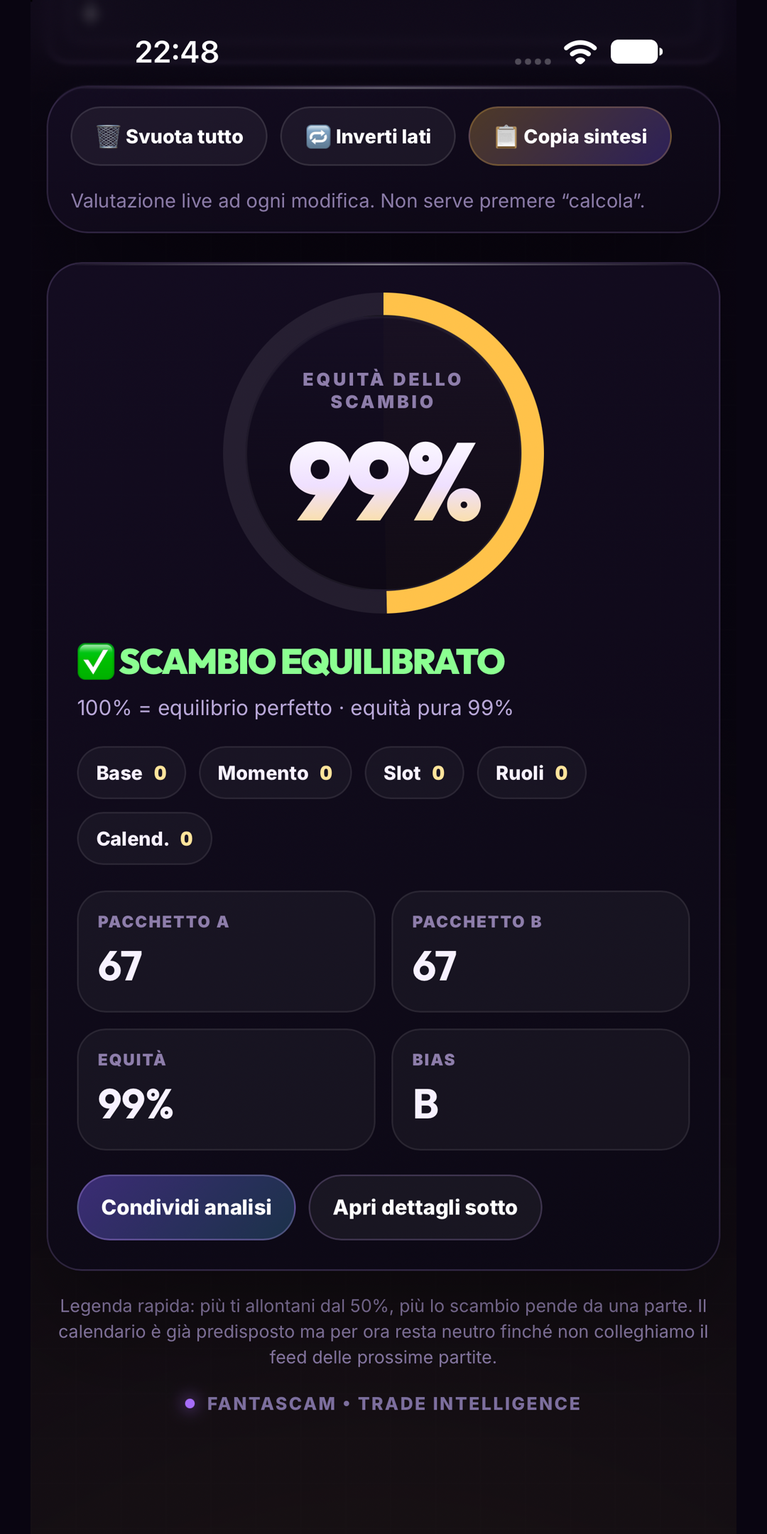
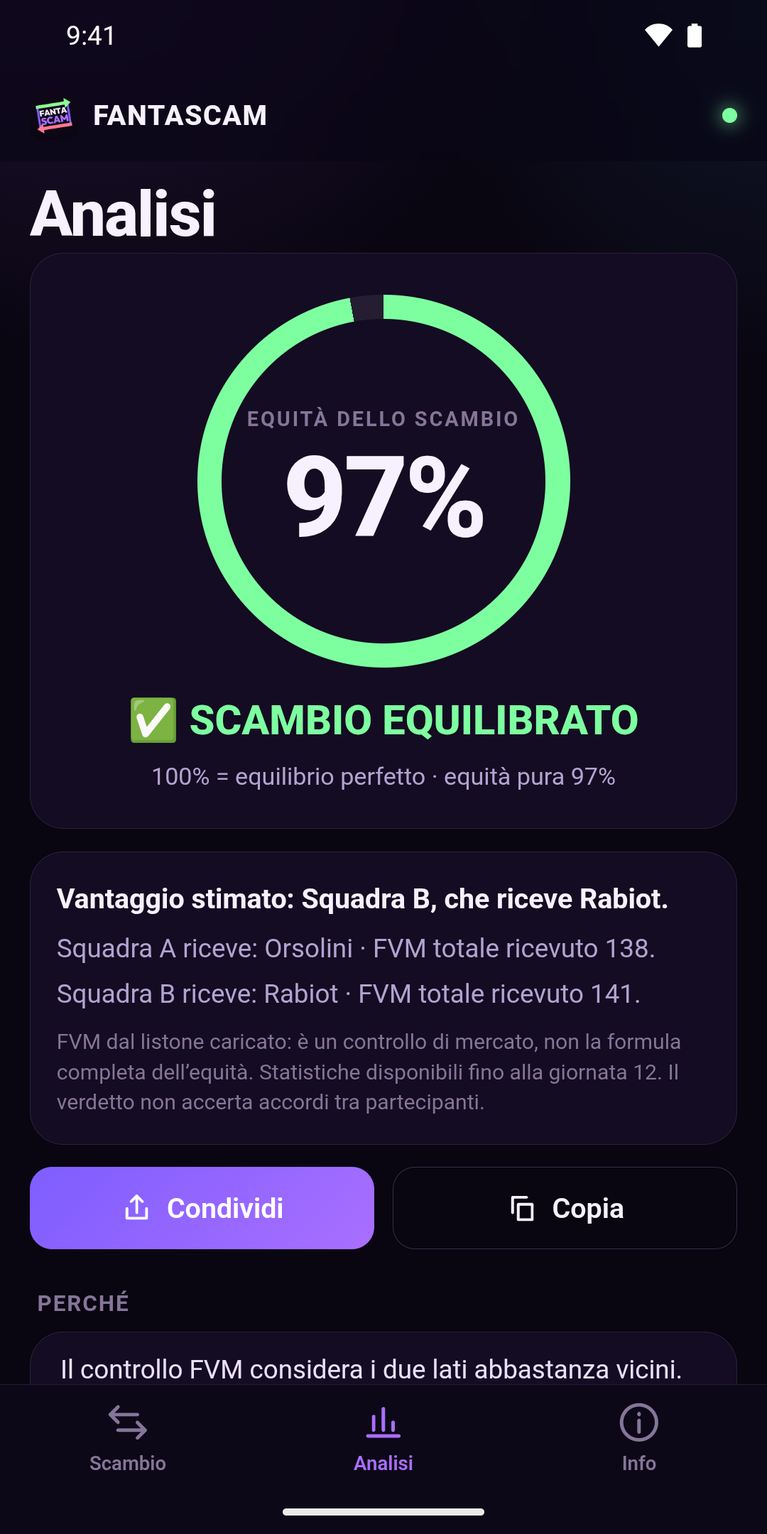
Prepara il rilascio Android 1.0 (build 3)
Safe area, status bar, splash, icona adattiva e tastiera corretti su Android;
condivisione nativa; firma di rilascio scriptata con chiave fuori dal repo;
grafica, screenshot e testi per Google Play.

Claude-Session: https://claude.ai/code/session_01QduvPC4f7yyeJ327Nc5ngE

diff --git a/mobile/www/app.css b/mobile/www/app.css
@@ -22,6 +22,12 @@
   --side-b:#7effba;
   --font:-apple-system,BlinkMacSystemFont,system-ui,"SF Pro Text",Roboto,"Segoe UI",sans-serif;
   --font-display:ui-rounded,"SF Pro Rounded",-apple-system,BlinkMacSystemFont,system-ui,Roboto,sans-serif;
+  /* Margini di sistema. Su iOS li da' env(); nella WebView Android env() vale 0
+     e Capacitor (SystemBars) li scrive in --safe-area-inset-*. Vince il maggiore. */
+  --sa-t:max(env(safe-area-inset-top,0px),var(--safe-area-inset-top,0px));
+  --sa-r:max(env(safe-area-inset-right,0px),var(--safe-area-inset-right,0px));
+  --sa-b:max(env(safe-area-inset-bottom,0px),var(--safe-area-inset-bottom,0px));
+  --sa-l:max(env(safe-area-inset-left,0px),var(--safe-area-inset-left,0px));
   --appbar-h:48px;
   --tabbar-h:56px;
   --verdictbar-h:68px;
@@ -44,7 +50,7 @@ button{cursor:pointer;touch-action:manipulation}
   radial-gradient(120% 60% at 10% -10%,rgba(169,111,255,.18),transparent 55%),
   radial-gradient(90% 50% at 100% 0%,rgba(86,180,255,.10),transparent 50%),var(--bg)}
 
-.appbar{flex:0 0 auto;position:relative;z-index:20;padding:env(safe-area-inset-top) calc(16px + env(safe-area-inset-right)) 0 calc(16px + env(safe-area-inset-left));
+.appbar{flex:0 0 auto;position:relative;z-index:20;padding:var(--sa-t) calc(16px + var(--sa-r)) 0 calc(16px + var(--sa-l));
   background:rgba(9,5,17,.72);-webkit-backdrop-filter:saturate(180%) blur(20px);backdrop-filter:saturate(180%) blur(20px);border-bottom:.5px solid transparent;transition:border-color .2s}
 .appbar.scrolled{border-bottom-color:var(--hair)}
 .appbar-row{height:var(--appbar-h);display:flex;align-items:center;justify-content:space-between;gap:12px}
@@ -59,7 +65,7 @@ button{cursor:pointer;touch-action:manipulation}
 
 .views{flex:1 1 auto;position:relative;overflow:hidden}
 .view{position:absolute;inset:0;overflow-x:hidden;overflow-y:auto;-webkit-overflow-scrolling:touch;overscroll-behavior-y:contain;
-  padding:4px calc(16px + env(safe-area-inset-right)) 28px calc(16px + env(safe-area-inset-left));
+  padding:4px calc(16px + var(--sa-r)) 28px calc(16px + var(--sa-l));
   opacity:0;visibility:hidden;transform:translateX(12px);transition:opacity .22s var(--ease),transform .22s var(--ease),visibility 0s .22s}
 .view.active{opacity:1;visibility:visible;transform:none;transition:opacity .22s var(--ease),transform .22s var(--ease)}
 .view[data-view="trade"]{padding-bottom:calc(var(--verdictbar-h) + 28px)}
@@ -70,7 +76,7 @@ button{cursor:pointer;touch-action:manipulation}
 .section-label{margin:22px 4px 8px;font-size:12px;font-weight:700;letter-spacing:.06em;text-transform:uppercase;color:var(--muted-2)}
 
 /* ---------- tab bar ---------- */
-.tabbar{flex:0 0 auto;position:relative;z-index:20;display:flex;padding:0 env(safe-area-inset-right) env(safe-area-inset-bottom) env(safe-area-inset-left);
+.tabbar{flex:0 0 auto;position:relative;z-index:20;display:flex;padding:0 var(--sa-r) var(--sa-b) var(--sa-l);
   background:rgba(13,8,22,.82);-webkit-backdrop-filter:saturate(180%) blur(20px);backdrop-filter:saturate(180%) blur(20px);border-top:.5px solid var(--hair)}
 .tab{flex:1;height:var(--tabbar-h);border:0;background:none;display:flex;flex-direction:column;align-items:center;justify-content:center;gap:3px;color:var(--muted-2);font-size:10.5px;font-weight:600;position:relative}
 .tab svg{width:25px;height:25px;stroke:currentColor;fill:none;stroke-width:1.8;stroke-linecap:round;stroke-linejoin:round}
@@ -150,7 +156,7 @@ select.cs-native{display:none!important}
 #csSheet .cs-backdrop{position:absolute;inset:0;background:rgba(0,0,0,.5);opacity:0;transition:opacity .25s}
 #csSheet.show .cs-backdrop{opacity:1}
 #csSheet .cs-panel{position:absolute;left:0;right:0;bottom:0;max-height:78vh;display:flex;flex-direction:column;background:#1a1029;border-radius:22px 22px 0 0;border-top:.5px solid var(--hair-strong);
-  padding-bottom:env(safe-area-inset-bottom);transform:translateY(100%);transition:transform .32s var(--ease);box-shadow:0 -20px 60px rgba(0,0,0,.5)}
+  padding-bottom:var(--sa-b);transform:translateY(100%);transition:transform .32s var(--ease);box-shadow:0 -20px 60px rgba(0,0,0,.5)}
 #csSheet.show .cs-panel{transform:none}
 #csSheet .cs-grab{width:38px;height:5px;border-radius:3px;background:rgba(255,255,255,.22);margin:8px auto 4px}
 #csSheet .cs-head{display:flex;align-items:center;justify-content:space-between;padding:6px 18px 10px}
@@ -207,14 +213,14 @@ select.cs-native{display:none!important}
 /* Modali dell'engine resi bottom sheet in tema. */
 .fsv10-modal,#fs-v101-manager{padding:0!important;align-items:flex-end!important;background:rgba(0,0,0,.5)!important}
 .fsv10-sheet,.fsv101-sheet{width:100%!important;max-width:720px;border-radius:22px 22px 0 0!important;border:0!important;border-top:.5px solid var(--hair-strong)!important;
-  background:#1a1029!important;padding:18px 18px calc(18px + env(safe-area-inset-bottom))!important;max-height:88vh!important;animation:sheetUp .32s var(--ease)}
+  background:#1a1029!important;padding:18px 18px calc(18px + var(--sa-b))!important;max-height:88vh!important;animation:sheetUp .32s var(--ease)}
 @keyframes sheetUp{from{transform:translateY(100%)}to{transform:none}}
 .fsv10-sheet input,.fsv10-sheet textarea,.fsv101-sheet input{font-size:16px!important;border-radius:12px!important;border:0!important;background:rgba(255,255,255,.07)!important;color:var(--text)!important;min-height:44px}
 .fsv10-sheet button,.fsv101-sheet button{min-height:42px;border-radius:12px!important}
 .fsv101-sheet input[type=file]::file-selector-button{border:0;border-radius:10px;background:rgba(169,111,255,.2);color:var(--accent);font-weight:700;padding:8px 12px;margin-right:10px}
 
 /* ---------- barra verdetto (vista Scambio) ---------- */
-.verdictbar{position:absolute;left:calc(12px + env(safe-area-inset-left));right:calc(12px + env(safe-area-inset-right));bottom:10px;z-index:15;height:var(--verdictbar-h);
+.verdictbar{position:absolute;left:calc(12px + var(--sa-l));right:calc(12px + var(--sa-r));bottom:10px;z-index:15;height:var(--verdictbar-h);
   display:flex;align-items:center;gap:12px;padding:0 14px 0 10px;border:.5px solid var(--hair-strong);border-radius:20px;color:var(--text);text-align:left;
   background:rgba(27,17,48,.86);-webkit-backdrop-filter:saturate(180%) blur(22px);backdrop-filter:saturate(180%) blur(22px);box-shadow:0 14px 40px rgba(0,0,0,.45);
   transition:transform .3s var(--ease),opacity .3s}
@@ -287,7 +293,7 @@ select.cs-native{display:none!important}
 .app-foot{margin:24px 0 8px;text-align:center;color:var(--muted-2);font-size:12px}
 
 /* ---------- toast ---------- */
-.toast{position:fixed;left:50%;top:calc(env(safe-area-inset-top) + 10px);z-index:95000;transform:translate(-50%,calc(-100% - env(safe-area-inset-top) - 24px));opacity:0;transition:transform .32s var(--ease),opacity .2s;padding:11px 16px;border-radius:14px;
+.toast{position:fixed;left:50%;top:calc(var(--sa-t) + 10px);z-index:95000;transform:translate(-50%,calc(-100% - var(--sa-t) - 24px));opacity:0;transition:transform .32s var(--ease),opacity .2s;padding:11px 16px;border-radius:14px;
   background:rgba(36,24,61,.96);border:.5px solid var(--hair-strong);color:#fff;font-weight:600;font-size:14px;box-shadow:0 12px 32px rgba(0,0,0,.45);pointer-events:none;max-width:calc(100% - 32px)}
 .toast.show{transform:translate(-50%,0);opacity:1}
 

diff --git a/mobile/www/app-shell.js b/mobile/www/app-shell.js
@@ -370,6 +370,18 @@
     const isField = el => el && (el.tagName === 'TEXTAREA' || (el.tagName === 'INPUT' && !['button', 'checkbox', 'radio', 'file'].includes(el.type)));
     document.addEventListener('focusin', e => { if (isField(e.target)) document.body.classList.add('kb-open'); });
     document.addEventListener('focusout', () => setTimeout(() => { if (!isField(document.activeElement)) document.body.classList.remove('kb-open'); }, 60));
+    // Su Android il tasto indietro chiude la tastiera lasciando il focus sul
+    // campo: nessun focusout, quindi fa fede l'altezza della finestra. Il focus
+    // non si tocca, altrimenti sparirebbero i risultati della ricerca.
+    if (window.Capacitor?.getPlatform?.() === 'android') {
+      let h = window.innerHeight, w = window.innerWidth;
+      window.addEventListener('resize', () => {
+        const dh = window.innerHeight - h, ruotato = window.innerWidth !== w;
+        h = window.innerHeight; w = window.innerWidth;
+        if (ruotato || Math.abs(dh) < 120) return;
+        document.body.classList.toggle('kb-open', dh < 0 && isField(document.activeElement));
+      });
+    }
   };
 
   /* =====================================================================
@@ -489,7 +501,7 @@
     window.Capacitor?.Plugins?.App?.addListener?.('backButton', () => {
       const ae = document.activeElement;
       const engineModal = $('#fs-v101-manager.show, #fs-v10-league-modal.show');
-      if (ae && /^(INPUT|TEXTAREA)$/.test(ae.tagName) && document.body.classList.contains('kb-open')) ae.blur();
+      if (ae && /^(INPUT|TEXTAREA)$/.test(ae.tagName)) ae.blur();
       else if (sheet.classList.contains('open')) close();
       else if (engineModal) { const x = engineModal.querySelector('[data-close]'); x ? x.click() : engineModal.classList.remove('show'); }
       else if (!$('.view[data-view="trade"]').classList.contains('active')) showView('trade');

diff --git a/mobile/www/index.html b/mobile/www/index.html
@@ -252,6 +252,11 @@
 </template>
 
 <script>window.FS_STORE_EDITION=true;window.FS_API_BASE="https://fantacalcio-trade-calculator.vercel.app";</script>
+<script>
+// Il gestore leghe del motore legge il budget senza default (num(null,500) da' 0)
+// e propone 1 credito: si salva il valore iniziale prima che lo chieda.
+try{if(!localStorage.getItem('fantascamLeagueBudget'))localStorage.setItem('fantascamLeagueBudget','500')}catch(e){}
+</script>
 <!-- XLSX nel bundle: l'import delle leghe deve funzionare anche senza rete.
      loadXlsx() in injuries.js trova window.XLSX gia' presente e non scarica dal CDN. -->
 <script defer src="vendor/xlsx.full.min.js"></script>
@@ -357,6 +362,9 @@ async function copyText(text){
   catch(e){showToast('Copia non riuscita');}
 }
 async function shareText(text){
+  // La WebView Android non ha navigator.share: li' serve il plugin nativo.
+  const nativo=window.Capacitor?.isNativePlatform?.()&&window.Capacitor.Plugins?.Share;
+  if(nativo){try{await nativo.share({title:'FANTASCAM',text});return}catch(e){if(/cancel/i.test(e?.message||''))return}}
   if(navigator.share){try{await navigator.share({title:'FANTASCAM',text});return}catch(e){if(e&&e.name==='AbortError')return}}
   copyText(text);
 }

diff --git a/mobile/capacitor.config.ts b/mobile/capacitor.config.ts
@@ -24,6 +24,11 @@ const config: CapacitorConfig = {
     CapacitorHttp: {
       enabled: true
     },
+    // L'app e' sempre scura: icone chiare nella status bar anche quando il
+    // telefono e' in tema chiaro (il default segue il sistema).
+    SystemBars: {
+      style: 'DARK'
+    },
     // Lo splash nativo resta finche' l'intro e' pronta a partire: lo nasconde
     // il codice in www/index.html, non il sistema, cosi' non c'e' stacco
     // fra launch screen e primo fotogramma del video.

diff --git a/mobile/scripts/apply_native.py b/mobile/scripts/apply_native.py
@@ -11,6 +11,16 @@ Cosa applica:
   iOS     ITSAppUsesNonExemptEncryption = false in Info.plist
           MARKETING_VERSION e CURRENT_PROJECT_VERSION in project.pbxproj
   Android versionName e versionCode in app/build.gradle
+          firma di rilascio in app/build.gradle (vedi sotto)
+          tema di avvio scuro in values/styles.xml e icona dello splash
+          icona adattiva con fondo pieno in mipmap-anydpi-v26/
+
+Firma Android: chiave e password NON stanno nel repo. build.gradle le legge da
+`keystore.properties` nella cartella FANTASCAM_Signing, sorella del repo (o in
+quella indicata da FANTASCAM_SIGNING_DIR). Se il file non c'e', come in CI, il
+bundle esce non firmato invece di fallire.
+
+Va eseguito dopo `npm run assets`, che riscrive l'icona adattiva.
 
 Sulla dichiarazione di crittografia: App Store Connect chiede a ogni build se
 la app usa crittografia. FANTASCAM fa solo chiamate HTTPS, cioe' usa la
@@ -36,6 +46,78 @@ RELEASE = ROOT / "release.json"
 INFO_PLIST = ROOT / "ios" / "App" / "App" / "Info.plist"
 PBXPROJ = ROOT / "ios" / "App" / "App.xcodeproj" / "project.pbxproj"
 GRADLE = ROOT / "android" / "app" / "build.gradle"
+RES = ROOT / "android" / "app" / "src" / "main" / "res"
+
+SFONDO = "#090511"
+
+FIRMA_MARCA = "// FANTASCAM: firma di rilascio"
+FIRMA = FIRMA_MARCA + """ (generato da scripts/apply_native.py)
+def fsSigningDir = System.getenv('FANTASCAM_SIGNING_DIR') ?: rootProject.file('../../../FANTASCAM_Signing').path
+def fsSigningFile = new File(fsSigningDir, 'keystore.properties')
+if (fsSigningFile.exists()) {
+    def fsSigning = new Properties()
+    fsSigningFile.withInputStream { fsSigning.load(it) }
+    android {
+        signingConfigs {
+            release {
+                storeFile new File(fsSigningDir, fsSigning['storeFile'])
+                storePassword fsSigning['storePassword']
+                keyAlias fsSigning['keyAlias']
+                keyPassword fsSigning['keyPassword']
+            }
+        }
+        buildTypes.release.signingConfig signingConfigs.release
+    }
+}
+"""
+
+# Senza questi colori lo splash di Android 12+ segue il tema del telefono e in
+# chiaro lampeggia bianco prima dell'intro.
+STYLES = f"""<?xml version="1.0" encoding="utf-8"?>
+<!-- Generato da scripts/apply_native.py -->
+<resources>
+    <style name="AppTheme" parent="Theme.AppCompat.NoActionBar">
+        <item name="android:windowBackground">@color/fantascam_background</item>
+    </style>
+
+    <style name="AppTheme.NoActionBar" parent="Theme.AppCompat.NoActionBar">
+        <item name="windowActionBar">false</item>
+        <item name="windowNoTitle">true</item>
+        <item name="android:windowBackground">@color/fantascam_background</item>
+    </style>
+
+    <style name="AppTheme.NoActionBarLaunch" parent="Theme.SplashScreen">
+        <item name="windowSplashScreenBackground">@color/fantascam_background</item>
+        <item name="windowSplashScreenAnimatedIcon">@drawable/fantascam_splash_icon</item>
+        <item name="postSplashScreenTheme">@style/AppTheme.NoActionBar</item>
+    </style>
+</resources>
+"""
+COLORI = f"""<?xml version="1.0" encoding="utf-8"?>
+<!-- Generato da scripts/apply_native.py -->
+<resources>
+    <color name="fantascam_background">{SFONDO}</color>
+</resources>
+"""
+# L'icona dello splash occupa 288dp ma il sistema ne mostra solo il cerchio
+# centrale da 192dp. Il margine e' in dp: in percentuale servirebbe API 26.
+SPLASH = """<?xml version="1.0" encoding="utf-8"?>
+<!-- Generato da scripts/apply_native.py -->
+<inset xmlns:android="http://schemas.android.com/apk/res/android"
+    android:drawable="@mipmap/ic_launcher_foreground"
+    android:inset="54dp" />
+"""
+# @capacitor/assets mette un margine anche sul fondo: ai bordi della maschera
+# resta un filo trasparente. Il fondo deve essere pieno.
+ICONA = """<?xml version="1.0" encoding="utf-8"?>
+<!-- Generato da scripts/apply_native.py -->
+<adaptive-icon xmlns:android="http://schemas.android.com/apk/res/android">
+    <background android:drawable="@color/fantascam_background" />
+    <foreground>
+        <inset android:drawable="@mipmap/ic_launcher_foreground" android:inset="16.7%" />
+    </foreground>
+</adaptive-icon>
+"""
 
 esiti: list[tuple[bool, str]] = []
 
@@ -58,7 +140,9 @@ def leggi_release() -> dict:
 
 
 def bump(dati: dict) -> dict:
-    usate = set(dati.get("usedBuilds", {}).get("ios", []))
+    # Il numero e' unico per i due store: si saltano le build usate su entrambi.
+    registro = dati.get("usedBuilds", {})
+    usate = set(registro.get("ios", [])) | set(registro.get("android", []))
     nuovo = dati["build"] + 1
     while nuovo in usate:
         nuovo += 1
@@ -131,6 +215,43 @@ def applica_gradle(dati: dict, check: bool) -> None:
         nota(False, f"Android: portato a {dati['version']} ({dati['build']})")
 
 
+def applica_firma(check: bool) -> None:
+    if not GRADLE.exists():
+        return
+    testo = GRADLE.read_text(encoding="utf-8")
+    base = testo.split(FIRMA_MARCA)[0].rstrip() + "\n"
+    nuovo = base + "\n" + FIRMA
+    if nuovo == testo:
+        nota(True, "Android: firma di rilascio gia' configurata")
+    elif check:
+        nota(False, "Android: firma di rilascio da configurare")
+    else:
+        GRADLE.write_text(nuovo, encoding="utf-8")
+        nota(False, "Android: configurata la firma di rilascio")
+
+
+def applica_risorse(check: bool) -> None:
+    if not RES.exists():
+        return
+    file = {
+        RES / "values" / "styles.xml": STYLES,
+        RES / "values" / "fantascam.xml": COLORI,
+        RES / "drawable" / "fantascam_splash_icon.xml": SPLASH,
+        RES / "mipmap-anydpi-v26" / "ic_launcher.xml": ICONA,
+        RES / "mipmap-anydpi-v26" / "ic_launcher_round.xml": ICONA,
+    }
+    for percorso, atteso in file.items():
+        nome = f"{percorso.parent.name}/{percorso.name}"
+        if percorso.exists() and percorso.read_text(encoding="utf-8") == atteso:
+            nota(True, f"Android: {nome} gia' a posto")
+        elif check:
+            nota(False, f"Android: {nome} da riscrivere")
+        else:
+            percorso.parent.mkdir(parents=True, exist_ok=True)
+            percorso.write_text(atteso, encoding="utf-8")
+            nota(False, f"Android: riscritto {nome}")
+
+
 def main() -> int:
     argv = sys.argv[1:]
     check = "--check" in argv
@@ -145,6 +266,8 @@ def main() -> int:
     applica_plist(dati, check)
     applica_pbxproj(dati, check)
     applica_gradle(dati, check)
+    applica_firma(check)
+    applica_risorse(check)
 
     divergenti = [t for ok, t in esiti if not ok]
     if check and divergenti:

diff --git a/CLAUDE.md b/CLAUDE.md
@@ -227,7 +227,7 @@ npx cap sync
 
 Toolchain locale presente: Node 26.6, npm 11.18, Xcode 26.6, CocoaPods 1.15.2 (non serve, SPM), Java 21, Android SDK. `ANDROID_HOME` non è esportato nell'ambiente: `export ANDROID_HOME=~/Library/Android/sdk` prima dei comandi gradle. Capacitor 8 richiede compileSdk/targetSdk **36**: Gradle lo scarica da solo al primo sync.
 
-`android/`, `ios/` e `node_modules/` sono gitignorati e vengono rigenerati da `cap add`. Il codice nativo generato è **boilerplate vuoto** — iOS: `SceneDelegate.swift` con la sola riga `window?.rootViewController = CAPBridgeViewController()`; Android: `MainActivity extends BridgeActivity {}`, 5 righe — quindi oggi rigenerare non perde nulla. Le personalizzazioni native che servono davvero sono **scriptate**, non fatte a mano in Xcode: le riapplica `scripts/apply_native.py` leggendo da `mobile/release.json`, unica fonte dei numeri di versione. Unico permesso Android: `INTERNET`.
+`android/`, `ios/` e `node_modules/` sono gitignorati e vengono rigenerati da `cap add`. Il codice nativo generato è **boilerplate vuoto** — iOS: `SceneDelegate.swift` con la sola riga `window?.rootViewController = CAPBridgeViewController()`; Android: `MainActivity extends BridgeActivity {}`, 5 righe — quindi oggi rigenerare non perde nulla. Le personalizzazioni native che servono davvero sono **scriptate**, non fatte a mano in Xcode: le riapplica `scripts/apply_native.py` leggendo da `mobile/release.json`, unica fonte dei numeri di versione. Permessi Android: `INTERNET` e `VIBRATE` (haptics).
 
 ### Numeri di versione e dichiarazione crittografia
 
@@ -239,9 +239,19 @@ npm run release:bump    # alza il build number prima di un nuovo upload
 
 Lo script imposta `MARKETING_VERSION`/`CURRENT_PROJECT_VERSION` (iOS), `versionName`/`versionCode` (Android) e `ITSAppUsesNonExemptEncryption = false` in `Info.plist`.
 
-**Va eseguito dopo ogni `cap add`** e prima di ogni archivio: i progetti nativi sono rigenerabili e tornano a `1`, mentre Apple e Google rifiutano un upload con un build number già usato. `release.json` tiene l'elenco delle build già consumate (`usedBuilds.ios`) e `--bump` le salta.
+Su Android lo script scrive anche firma di rilascio, tema di avvio scuro, icona dello splash e icona adattiva.
+
+**Va eseguito dopo ogni `cap add`** e dopo ogni `npm run assets` e prima di ogni archivio: i progetti nativi sono rigenerabili e tornano a `1`, mentre Apple e Google rifiutano un upload con un build number già usato. `release.json` tiene l'elenco delle build già consumate (`usedBuilds.ios`) e `--bump` le salta.
 
 La chiave `ITSAppUsesNonExemptEncryption = false` elimina l'avviso **"Conformità mancante"** su App Store Connect. È corretta perché la app usa solo HTTPS, cioè la crittografia di sistema, che Apple considera esente — **va rivista se un domani la app implementasse cifratura propria**. Non sana le build già caricate: per quelle la domanda si risponde a mano in App Store Connect.
+
+### Android: firma e particolarità (dal 2026-11-23)
+
+- **Firma**: chiave di caricamento e password stanno fuori dal repo in `../FANTASCAM_Signing/` (`fantascam-upload.jks`, `keystore.properties`; altrove con `FANTASCAM_SIGNING_DIR`). Senza quel file il bundle esce non firmato, come in CI. I bundle pronti vanno in `../FANTASCAM_Release/`. **Mai committarla.**
+- **Safe area**: nella WebView Android `env(safe-area-inset-*)` vale 0 e Capacitor scrive `--safe-area-inset-*`. In `app.css` si usano solo `--sa-t/r/b/l`, che prendono il maggiore dei due: mai `env()` diretto.
+- **Tastiera**: il tasto indietro la chiude senza `focusout`; `bindKeyboard()` su Android si basa sull'altezza della finestra.
+- **Condividi**: la WebView Android non ha `navigator.share`, si usa `@capacitor/share`.
+- **Bug del motore aggirato**: il gestore leghe proponeva budget 1 (`num(null,500)` dà 0 in `injuries.js`); `www/index.html` salva 500 in `fantascamLeagueBudget` all'avvio. Da segnalare a monte.
 
 **Su questa macchina `xcode-select` punta a `/Library/Developer/CommandLineTools`**, quindi `xcodebuild` fallisce. Prefissa i comandi con `DEVELOPER_DIR=/Applications/Xcode.app/Contents/Developer` (oppure sistema una volta per tutte con `sudo xcode-select -s /Applications/Xcode.app/Contents/Developer`).
 

diff --git a/mobile/docs/GOOGLE_PLAY_READY_IT.md b/mobile/docs/GOOGLE_PLAY_READY_IT.md
@@ -49,13 +49,37 @@ Le leghe importate restano sul dispositivo. Non servono account né password di 
 
 FANTASCAM è un prodotto indipendente e non è affiliato, sponsorizzato o approvato da federazioni, leghe o piattaforme fantasy di terze parti. Le valutazioni sono uno strumento di supporto e non costituiscono previsioni certe sui risultati sportivi.
 
+## Grafica
+- Icona 512×512: `store-assets/google-play/icon-512.png`
+- Immagine in primo piano 1024×500: `store-assets/google-play/feature-graphic-1024x500.png`
+- Screenshot telefono (5, 1080×2160): `store-assets/screenshots/android/`
+
 ## Contatti / URL
-- Privacy policy: pubblicare `www/privacy.html` su URL HTTPS prima dell'invio
-- Supporto: pubblicare `www/support.html` su URL HTTPS prima dell'invio
-- Email supporto temporanea nella bozza: smdtortora@gmail.com
-  Consigliato prima del lancio: creare un indirizzo dedicato FANTASCAM.
+- Privacy policy: https://fantacalcio-trade-calculator.vercel.app/privacy.html
+- Sito / supporto: https://fantacalcio-trade-calculator.vercel.app/support.html
+- Email di contatto (pubblica sulla scheda): smdtortora@gmail.com
 
-## Sicurezza dei dati — impostazione prudenziale
-Le rose e i file importati restano localmente sul dispositivo. L'app effettua richieste HTTPS al backend FANTASCAM ospitato su Vercel; il provider di hosting può trattare IP, user agent e log tecnici per sicurezza e funzionamento. Non sono presenti SDK pubblicitari o tracking comportamentale nella versione iniziale.
+## Contenuti dell'app (dichiarazioni)
+- Accesso all'app: tutte le funzionalità disponibili senza credenziali
+- Annunci: No
+- Classificazione contenuti (IARC): categoria "Utility, produttività, comunicazione o altro"; No a tutto, compresi giochi d'azzardo, interazione fra utenti, acquisti e posizione
+- Pubblico di destinazione: 18 anni e oltre (non rivolta ai bambini)
+- App di notizie: No · Sanità: No · App governativa: No · Funzionalità finanziarie: nessuna
+- ID pubblicità: No (la app non ha il permesso `AD_ID`)
+- Permessi: `INTERNET` e `VIBRATE` (feedback aptico), nessuno da giustificare
 
-Prima dell'invio definitivo ricontrollare la sezione Sicurezza dei dati contro il comportamento della build firmata e dei provider attivi.
+## Sicurezza dei dati
+- L'app raccoglie o condivide dati utente? **No**
+- Rose e file importati restano sul dispositivo: non sono "raccolti" nel senso di Google.
+- Le richieste HTTPS al backend su Vercel scaricano dati pubblici e non inviano dati dell'utente. Vercel tiene log tecnici (IP, user agent) che FANTASCAM non usa per identificare o localizzare nessuno. Se un domani venissero usati, o si aggiungessero SDK, la risposta va cambiata.
+
+## Rilascio
+- Bundle: `npm run native:config`, poi `cd android && ./gradlew bundleRelease`
+- Firma: Play App Signing attiva. La chiave in `FANTASCAM_Signing/` è quella di **caricamento**.
+- Dopo ogni upload: aggiungere il build number a `usedBuilds.android` in `release.json`.
+
+### Note sulla versione (max 500)
+Prima versione di FANTASCAM: valuta gli scambi della tua lega fantasy con dati aggiornati, infortuni e rose reali.
+
+### Account personale creato dopo il 13/11/2023
+Prima della produzione serve un test chiuso con almeno 12 tester iscritti per 14 giorni consecutivi. Non vale per gli account organizzazione.

diff --git a/mobile/store-assets/screenshots/README.md b/mobile/store-assets/screenshots/README.md
@@ -19,9 +19,10 @@ ridimensionamento, nessuna banda aggiunta.
 
 ## Android — Google Play
 
-`android/` — **1080×2160**, rapporto 1:2 esatto. Le catture iOS sono 1:2,17,
-fuori dall'intervallo accettato da Play: qui il contenuto e' riportato in scala
-e centrato su fondo #090511, senza ritagli.
+`android/` — **1080×2160**, rapporto 1:2 esatto, 24 bit senza alfa. Catture vere
+dall'emulatore (giornata 12), non derivate da iOS: `adb shell wm size 1080x2160`
+e `wm density 420`, status bar pulita con la demo mode di SystemUI. La UI si pilota
+via DevTools della WebView debug, senza iniettare nulla in `www/`.
 
 Play chiede da 2 a 8 screenshot per telefono, Apple fino a 10: la serie e' valida
 per entrambi.
@@ -32,8 +33,8 @@ per entrambi.
 |---|---|---|
 | 1-schermata-iniziale | hero con dati live e giornata corrente | idem, con le due card affiancate |
 | 2-scegli-giocatori | selezione dei due lati | ricerca aperta con i risultati |
-| 3-verdetto-scam | equita' 30%, verdetto FANTASCAM | equita' 69%, Malen contro Orsolini |
-| 4-scambio-equilibrato | equita' 99% | equita' 98%, Mora contro Da Cunha |
+| 3-verdetto-scam | verdetto FANTASCAM (30% iOS, 50% Android) | equita' 69%, Malen contro Orsolini |
+| 4-scambio-equilibrato | equita' 99% iOS, 97% Android | equita' 98%, Mora contro Da Cunha |
 | 5-motivazioni | banner con le ragioni | ragioni + dettaglio per giocatore |
 
 ## Come rifarli
